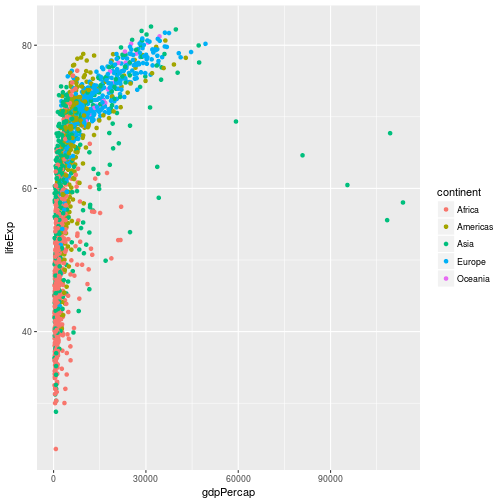
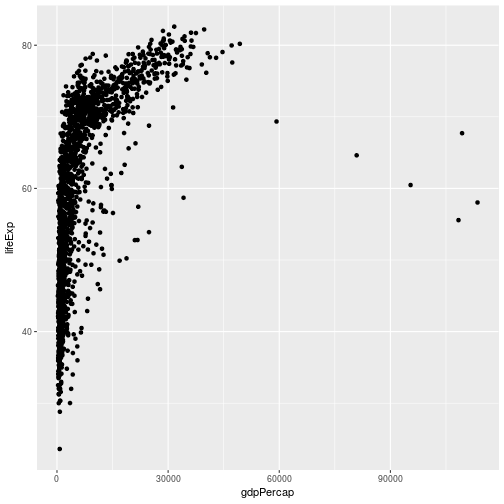
Remove curve fitting, add hint for challenge

diff --git a/_episodes/07-plot-ggplot2.md b/_episodes/07-plot-ggplot2.md
@@ -311,12 +311,12 @@ information.
 
 ## Transformations 
 
-Ggplot also makes it easy to overlay statistical models over the data. To
+Ggplot also makes it easy to transform axes, to better show our data.  To
 demonstrate we'll go back to our first example:
 
 
 ~~~
-gapminder %>% ggplot(aes(x = gdpPercap, y = lifeExp, color= continent)) +
+gapminder %>% ggplot(aes(x = gdpPercap, y = lifeExp)) +
   geom_point()
 ~~~
 {: .language-r}
@@ -326,7 +326,7 @@ gapminder %>% ggplot(aes(x = gdpPercap, y = lifeExp, color= continent)) +
 Currently it's hard to see the relationship between the points due to some strong
 outliers in GDP per capita. We can change the scale of units on the x axis using
 the *scale* functions. These control the mapping between the data values and
-visual values of an aesthetic. We can also modify the transparency of the
+visual values of an aesthetic. We also modify the transparency of the
 points, using the *alpha* function, which is especially helpful when you have
 a large amount of data which is very clustered.
 
@@ -358,7 +358,7 @@ x-axis.
 > 
 > Modify the plot so that each country has its own colour.   Although we would 
 > usually use a legend when plotting multiple series, you will find that this takes
-> up all of the plotting space; hide the legend.
+> up all of the plotting space; you can hide the legend using `+ guides(colour = "none")`.
 > 
 > 
 > > ## Solution to challenge 5
@@ -386,6 +386,7 @@ x-axis.
 > > <img src="../fig/rmd-06-noLegend-1.png" title="plot of chunk noLegend" alt="plot of chunk noLegend" style="display: block; margin: auto;" />
 > {: .solution}
 {: .challenge}
+
 
 
 > ## Challenge 6
